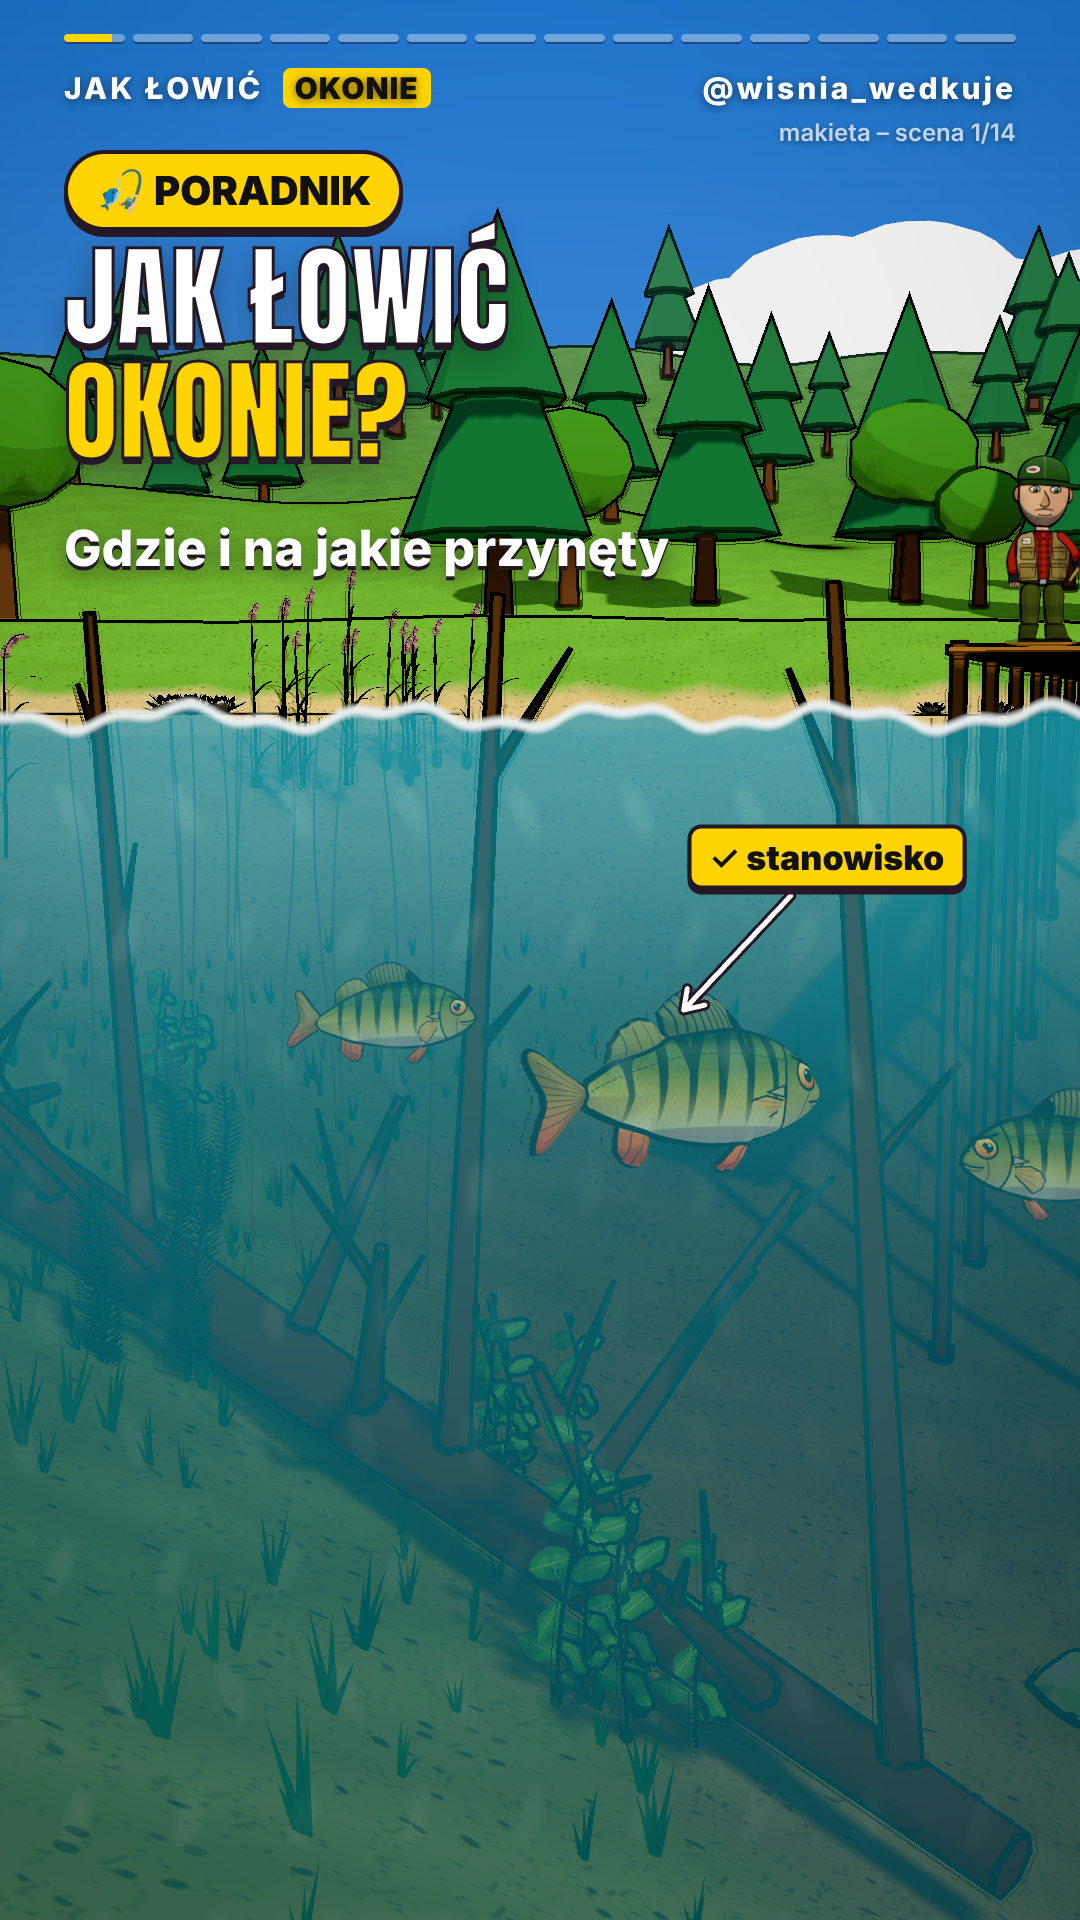
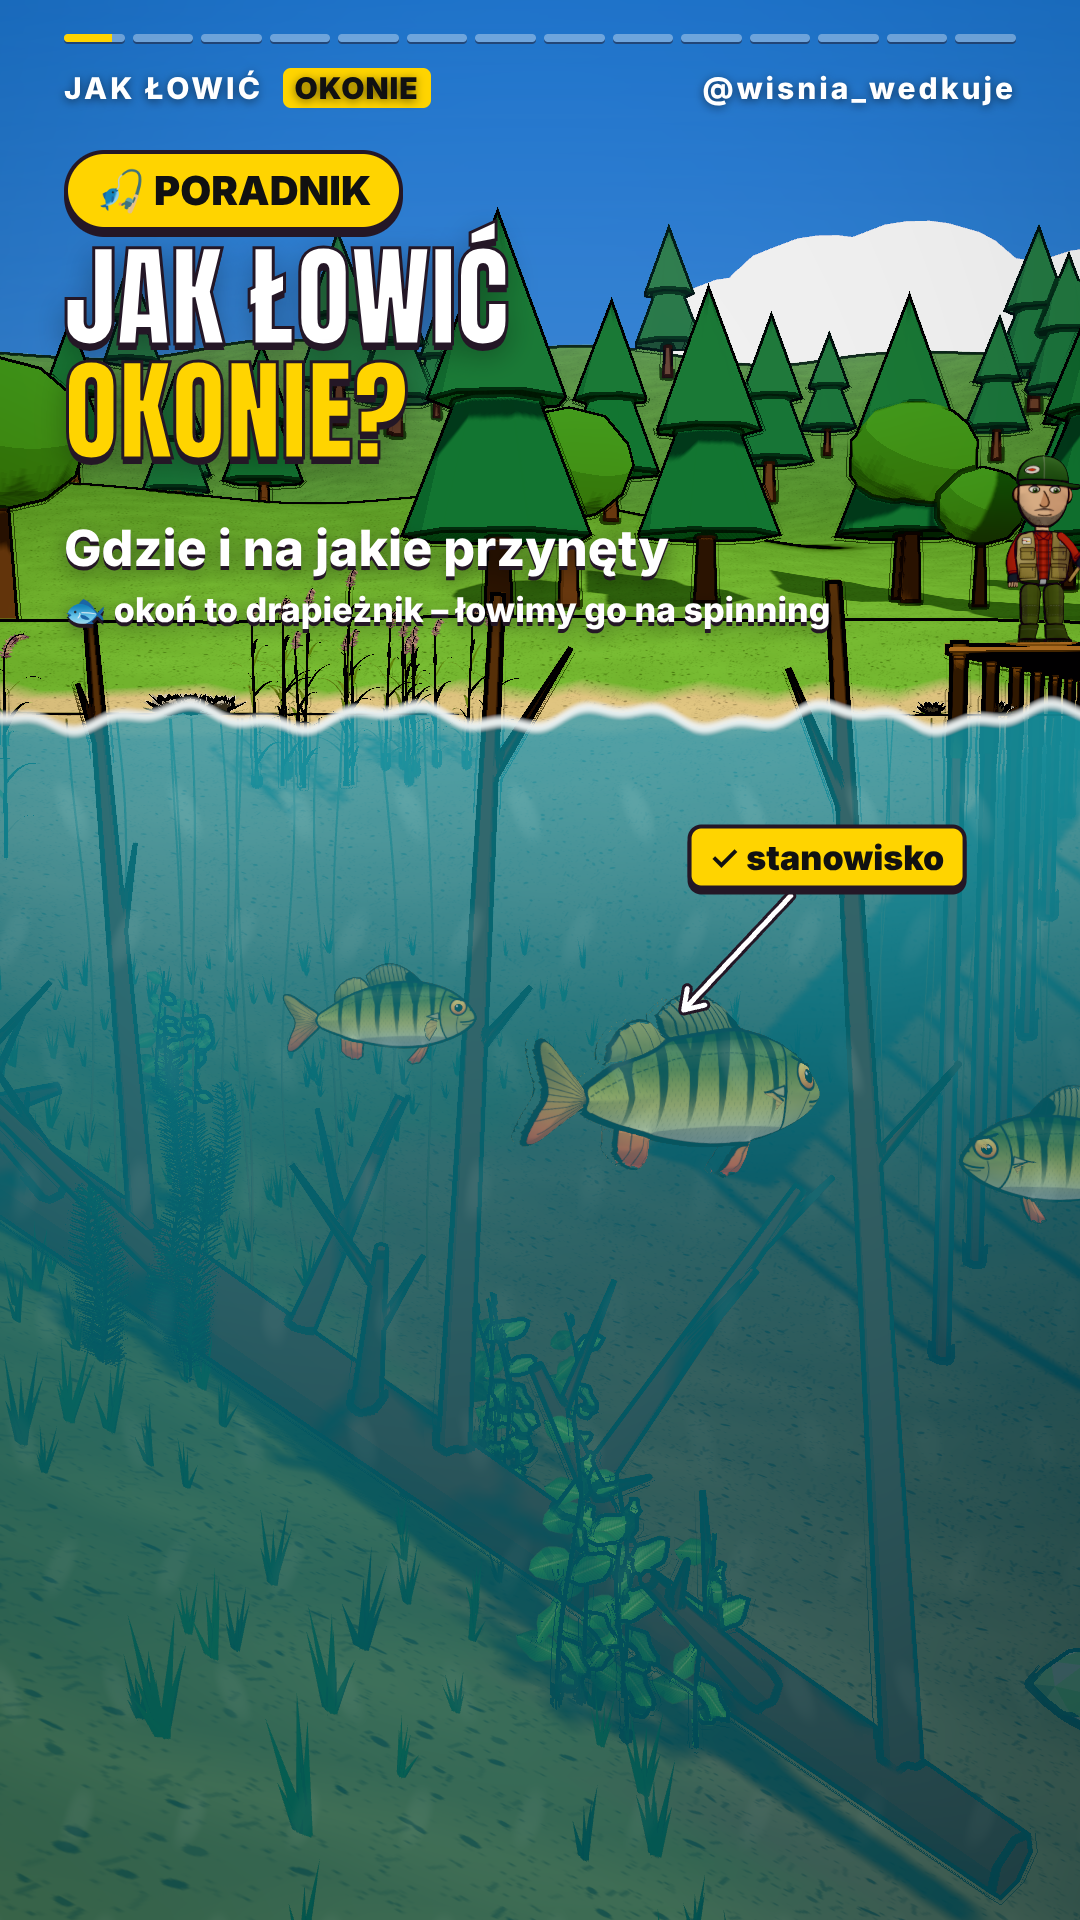
Okonie v2: okoń to drapieżnik – łowimy na spinning (hook, sprzęt), „nowy film codziennie” w zakończeniu
Claude-Session: https://claude.ai/code/session_01YFDAx3363ZnHR5mXZwci3a

diff --git a/atlas3d/okon_jak2.html b/atlas3d/okon_jak2.html
@@ -58,7 +58,7 @@ const SCENY = {
     const st = [[-13.2, -1.2, 9.5, .7], [-11.8, -1.5, 8.6, .55], [-14.6, -1.3, 8.2, .5]].map(([x, y, z, dl]) => plyw(postaw(okon(dl, { mina: 'czujny' }), x, y, z), { dx: .5, okres: 6, faza: x }));
     wskaz('✗ bez stanowiska', -5.05, -1.3, 6.5, 0, -170, 'c', 2.2, 4.2); wToni();   // przynęta w pustej wodzie – celowo w toni
     wskaz('✓ stanowisko', 0, 0, 0, 150, -160, 'z', 5.8); przypnij(st[0], [0, .25, 0]);
-    return `<div class="chip" data-od="6.4">🎣 PORADNIK</div><h1 data-od="6.6">Jak łowić<br><span>okonie?</span></h1><div class="opis" style="top:520px" data-od="7.6">Gdzie i na jakie przynęty</div>`;
+    return `<div class="chip" data-od="6.4">🎣 PORADNIK</div><h1 data-od="6.6">Jak łowić<br><span>okonie?</span></h1><div class="opis" style="top:520px" data-od="7.6">Gdzie i na jakie przynęty<small>🐟 okoń to drapieżnik – łowimy go na spinning</small></div>`;
   },
   2: () => { // JEZIORO 1: granica roślinności – trzciny i grzybienie z bliska, okoń pod liśćmi
     JEZIORO(); wazka(-8.2, .7, -16.6);
@@ -140,7 +140,7 @@ const SCENY = {
     el(PRZYNETY.obrotowka({ dl: .28 }), X - .15, .76, 13.2, { predkosc: .5 }); el(PRZYNETY.wobler({ dl: .26 }), X + .17, .76, 13.6, { predkosc: .6 });
     etykieta('wędka 2–10 g', -3.75, 2.04, z, 'z', 1.8); etykieta('kołowrotek 1000–2500', X, 1.76, z, 'z', 5); etykieta('plecionka + przypon', X, 1.42, z, '', 7.6);
     etykieta('guma 4–7 cm na główce', X, 1.16, z, 'z', 11.2); etykieta('obrotówki i woblery', X, .9, z, '', 13.8);
-    return `<div class="chip" data-od=".2">🎒 SPRZĘT</div><h1 data-od=".5">Lekki<br><span>spinning</span></h1>`;
+    return `<div class="chip" data-od=".2">🎒 SPRZĘT</div><h1 data-od=".5">Lekki<br><span>spinning</span></h1><div class="opis" style="top:500px" data-od="1">na drapieżnika</div>`;
   },
   9: () => { // PRZYNĘTY W AKCJI: pod wodą przepływają kolejno twister, obrotówka i wobler – każda pracuje po swojemu
     GORKA();
@@ -259,7 +259,7 @@ const SCENY = {
         <div class="k-pyt">Wymiar ochronny?<br>Rekord Polski?<br>Jak rozpoznać?</div>
         <div class="k-atlas">🐟 Okoń w serii <b>Atlas Ryb Polski</b><br>zajrzyj na mój profil</div>
       </div>
-      <div class="obserwuj" data-od="23.4"><span>OBSERWUJ</span><b>@wisnia_wedkuje</b><i>👆 kliknij w profil i obserwuj</i></div>`;
+      <div class="obserwuj" data-od="23.4"><span>OBSERWUJ</span><b>@wisnia_wedkuje</b><i>🎬 nowy film codziennie</i></div>`;
   },
 };
 

diff --git a/atlas3d/scenariusze/okon_jak_v2.md b/atlas3d/scenariusze/okon_jak_v2.md
@@ -86,3 +86,7 @@ pale pomostu przygaszone przez wodę tym mocniej, im głębiej (widok znad wody)
 - **Zakończenie** (ok. 5 s po CTA): karta „Wymiar ochronny, rekordy, jak rozpoznać? Okoń w serii Atlas Ryb Polski – zajrzyj na mój profil” i „Obserwuj @wisnia_wedkuje”.
   Lektor: „Chcesz wiedzieć, jaki okoń ma wymiar ochronny i jaki jest rekord Polski? Zajrzyj na mój profil i obserwuj Wiśnia Wędkuje!”
 - Makieta: 14 scen (`atlas3d/okon_jak2.html`).
+- **Okoń to drapieżnik** (Wikipedia PL, FishBase: żywi się bezkręgowcami i rybami): w hooku napis „okoń to drapieżnik – łowimy go na spinning”.
+  Lektor hooka: „…Okoń to drapieżnik, więc łowimy go głównie na spinning. Pokażę ci, gdzie go szukać…”
+- Zakończenie: „Obserwuj @wisnia_wedkuje – nowy film codziennie”. Lektor: „…Zajrzyj na mój profil i obserwuj Wiśnia Wędkuje – nowy film codziennie!”
+- Bez napisu „makieta – scena” w rogu.
